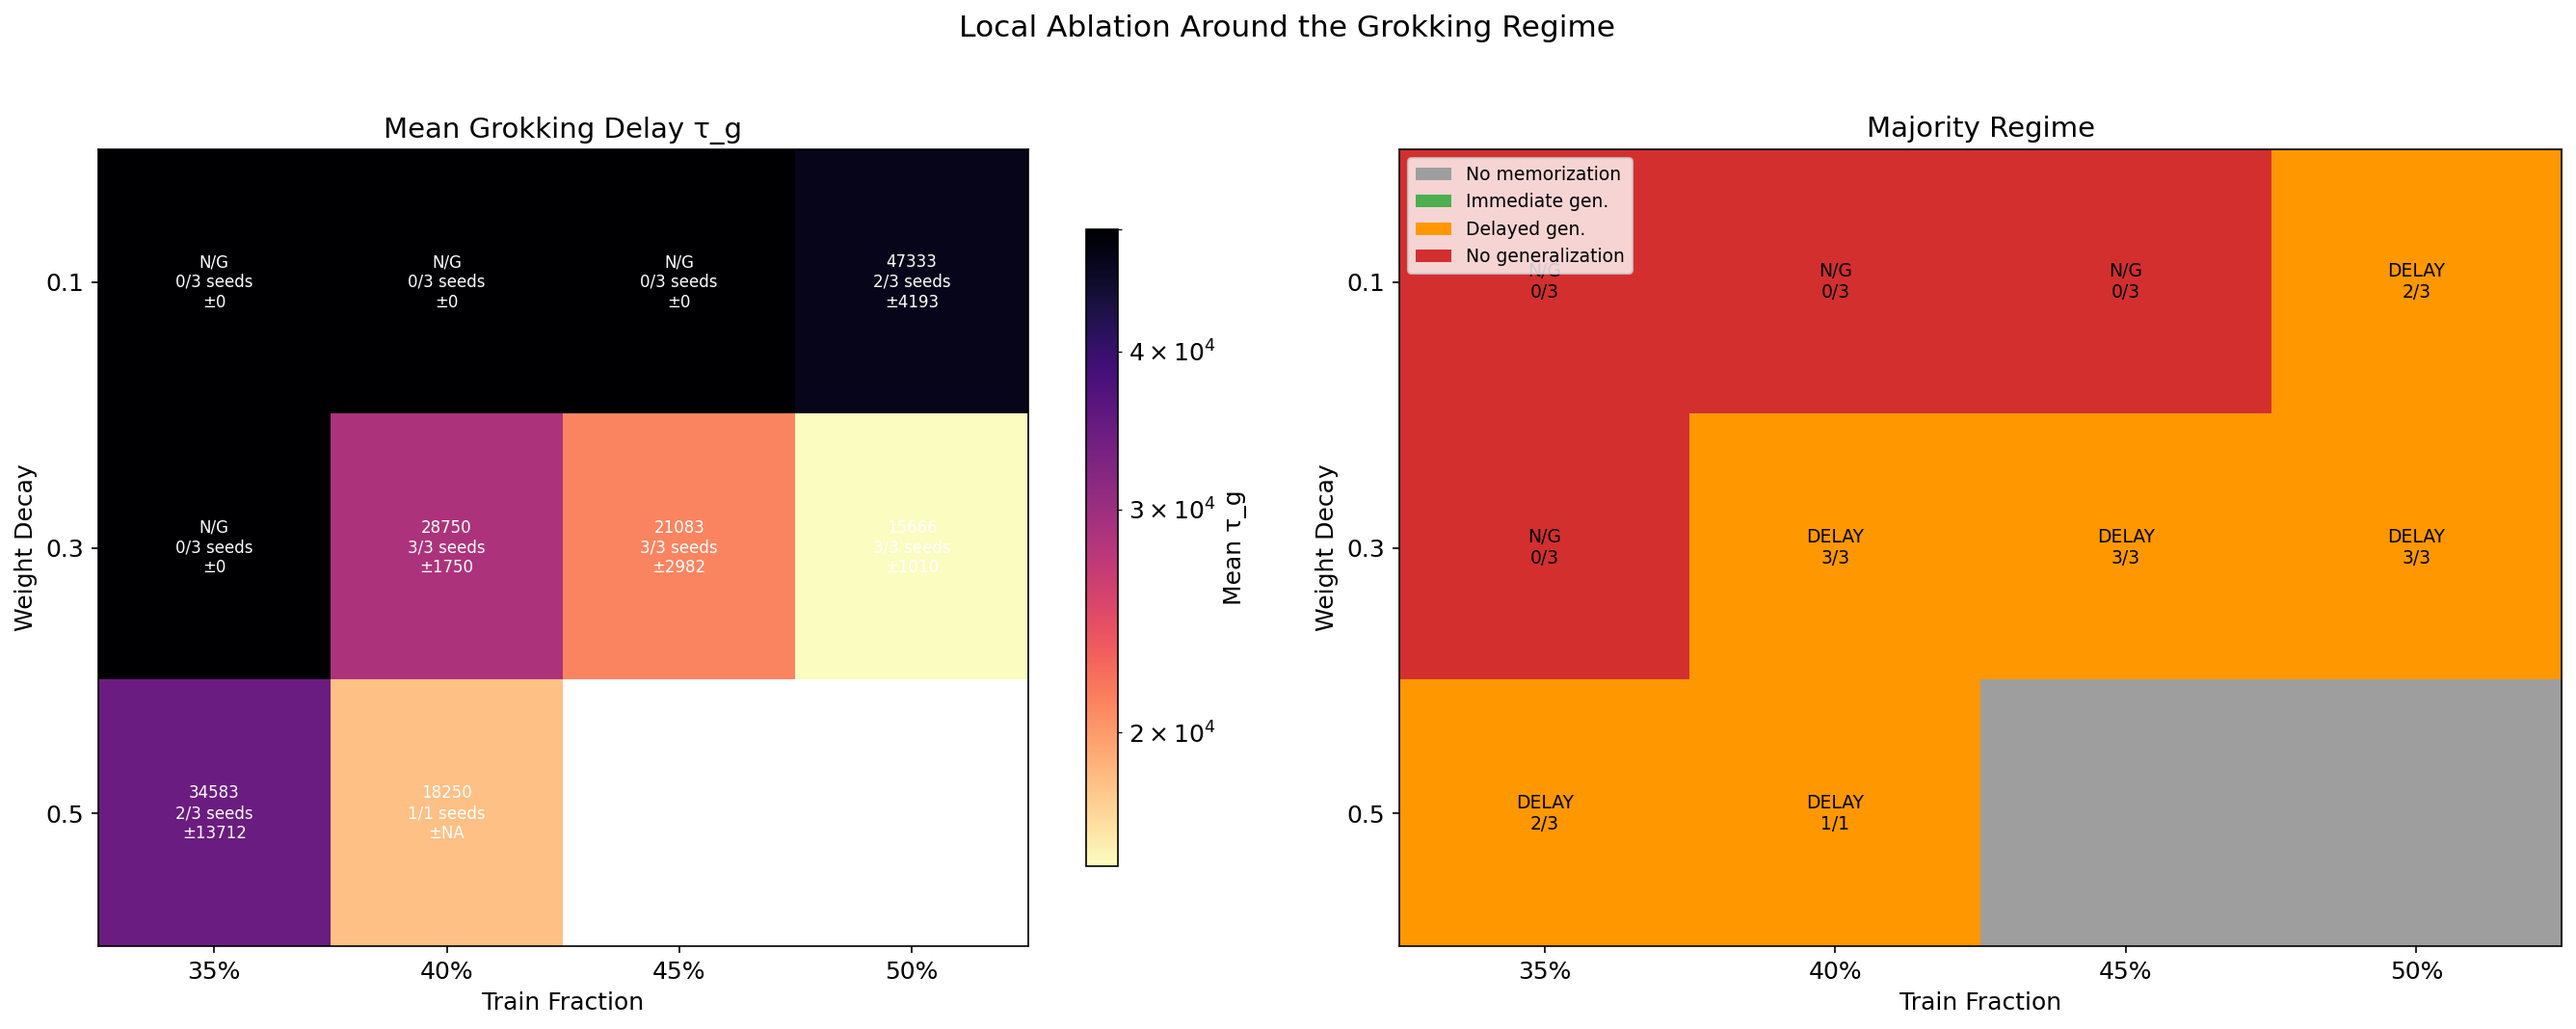
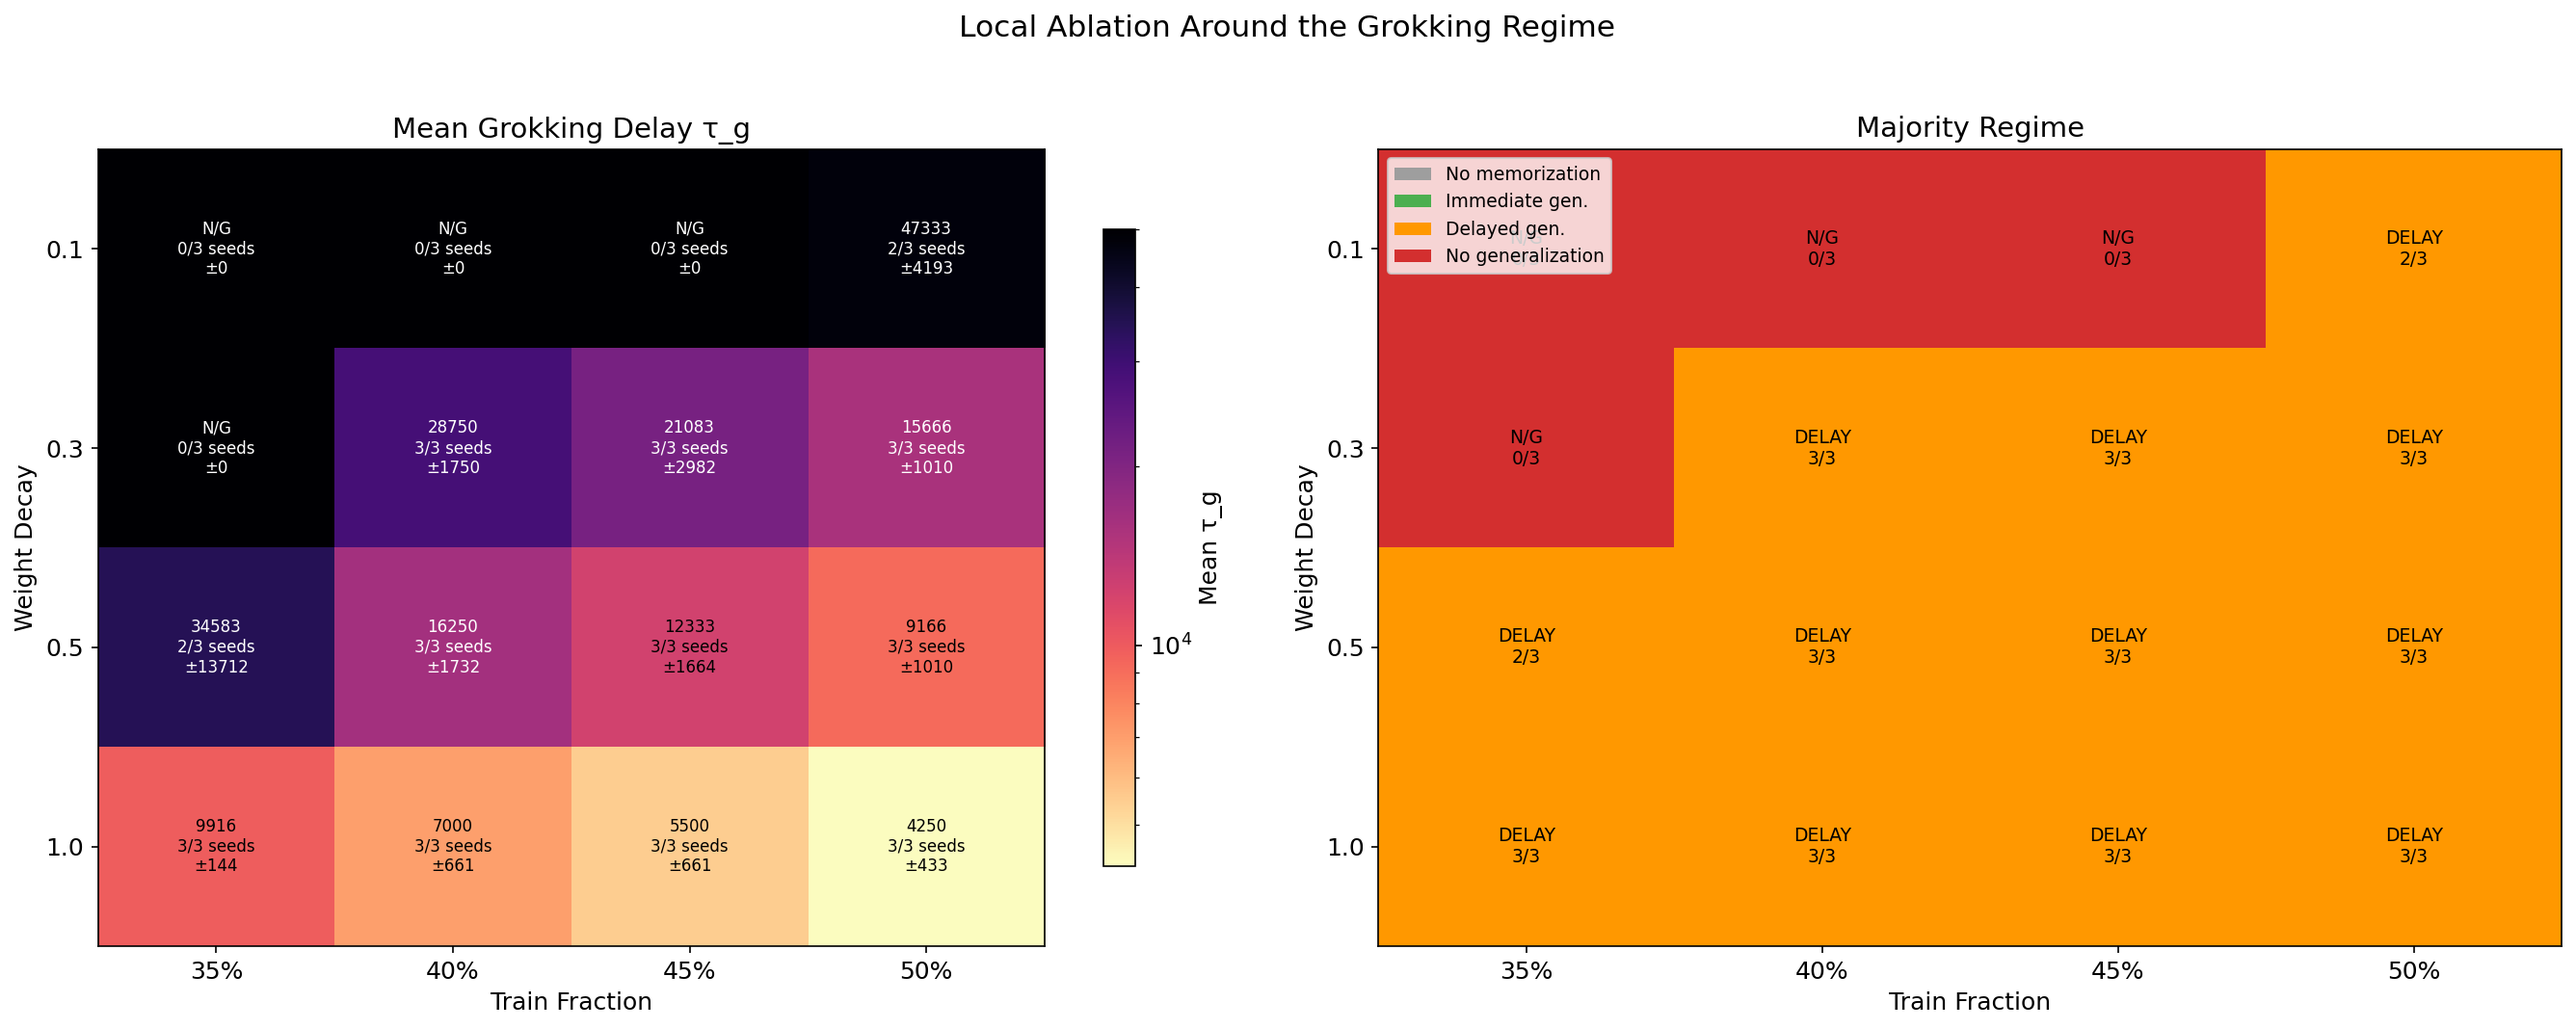
full ablation

diff --git a/grokking_ablation.py b/grokking_ablation.py
@@ -1,8 +1,6 @@
 import argparse
 import os
 import time
-from concurrent.futures import ProcessPoolExecutor, as_completed
-from multiprocessing import get_context
 
 import numpy as np
 import pandas as pd
@@ -19,58 +17,6 @@ from grokking_common import (
 )
 
 DEFAULT_OUT = "outputs/ablation"
-
-
-def _run_single(job):
-    """Worker function: each process imports torch and creates its own CUDA context."""
-    from grokking_common import TrainConfig, make_dataset, train_run, find_first_step
-
-    frac, wd, seed, steps, lr, eval_every, grad_clip = (
-        job["frac"], job["wd"], job["seed"], job["steps"],
-        job["lr"], job["eval_every"], job["grad_clip"],
-    )
-
-    ds = make_dataset(97, frac, seed=seed)
-    cfg = TrainConfig(
-        train_frac=frac,
-        data_seed=seed,
-        model_seed=seed,
-        n_steps=steps,
-        lr=lr,
-        weight_decay=wd,
-        eval_every=eval_every,
-        probe_every=steps + 1,
-        grad_clip=grad_clip,
-    )
-
-    _, metrics, _, _ = train_run(ds, cfg, collect_fourier=False, verbose=False)
-
-    s = np.array(metrics["step"])
-    tr = np.array(metrics["train_acc"])
-    te = np.array(metrics["test_acc"])
-
-    t99 = find_first_step(s, tr, 0.99)
-    t95 = find_first_step(s, te, 0.95)
-
-    if t99 is None:
-        delay, status = -1, "no_memorization"
-    elif t95 is None:
-        delay, status = steps, "no_generalization"
-    else:
-        delay = t95 - t99
-        status = "delayed_generalization" if delay >= 500 else "immediate_generalization"
-
-    return {
-        "train_frac": frac,
-        "weight_decay": wd,
-        "seed": seed,
-        "t_train_99": t99,
-        "t_test_95": t95,
-        "tau_g": delay,
-        "final_train_acc": float(tr[-1]),
-        "final_test_acc": float(te[-1]),
-        "status": status,
-    }
 
 
 def summarize_run(metrics, max_steps):
@@ -105,7 +51,71 @@ def majority_vote(series):
     return series.value_counts().idxmax()
 
 
-def aggregate_and_plot(per_seed_df, fracs, wds, steps, out_dir):
+def main():
+    parser = argparse.ArgumentParser()
+    parser.add_argument("--out_dir", type=str, default=DEFAULT_OUT)
+    parser.add_argument("--steps", type=int, default=50000)
+    parser.add_argument("--fracs", type=float, nargs="+", default=[0.35, 0.40, 0.45, 0.50])
+    parser.add_argument("--wds", type=float, nargs="+", default=[0.1, 0.3, 0.5, 1.0])
+    parser.add_argument("--seeds", type=int, nargs="+", default=[0, 1, 2])
+    parser.add_argument("--lr", type=float, default=3e-4)
+    parser.add_argument("--eval_every", type=int, default=250)
+    parser.add_argument("--grad_clip", type=float, default=1.0)
+    args = parser.parse_args()
+
+    ensure_dir(args.out_dir)
+    print(f"Device: {DEVICE}")
+
+    per_seed_rows = []
+    csv_path = os.path.join(args.out_dir, "ablation_results_per_seed.csv")
+    t0 = time.time()
+    total = len(args.wds) * len(args.fracs) * len(args.seeds)
+    done = 0
+
+    for wd in args.wds:
+        for frac in args.fracs:
+            for seed in args.seeds:
+                done += 1
+                print(f"\n[{done}/{total}] frac={frac}, wd={wd}, seed={seed}")
+
+                ds = make_dataset(97, frac, seed=seed)
+
+                cfg = TrainConfig(
+                    train_frac=frac,
+                    data_seed=seed,
+                    model_seed=seed,
+                    n_steps=args.steps,
+                    lr=args.lr,
+                    weight_decay=wd,
+                    eval_every=args.eval_every,
+                    probe_every=args.steps + 1,
+                    grad_clip=args.grad_clip,
+                )
+
+                _, metrics, _, _ = train_run(
+                    ds, cfg, collect_fourier=False, verbose=False,
+                )
+
+                summary = summarize_run(metrics, args.steps)
+
+                row = {
+                    "train_frac": frac,
+                    "weight_decay": wd,
+                    "seed": seed,
+                    **summary,
+                }
+                per_seed_rows.append(row)
+                pd.DataFrame(per_seed_rows).to_csv(csv_path, index=False)
+
+                elapsed = time.time() - t0
+                remaining = elapsed / done * (total - done)
+                print(f"  -> {row['status']}  tau_g={row['tau_g']}  "
+                      f"[{elapsed:.0f}s elapsed, ~{remaining:.0f}s remaining]")
+
+    per_seed_df = pd.DataFrame(per_seed_rows)
+    per_seed_df.to_csv(csv_path, index=False)
+
+    # Aggregate across seeds
     grouped = (
         per_seed_df.groupby(["train_frac", "weight_decay"], as_index=False)
         .agg(
@@ -128,106 +138,10 @@ def aggregate_and_plot(per_seed_df, fracs, wds, steps, out_dir):
     )
     grouped = grouped.merge(status_df, on=["train_frac", "weight_decay"], how="left")
 
-    grouped_path = os.path.join(out_dir, "ablation_results_grouped.csv")
+    grouped_path = os.path.join(args.out_dir, "ablation_results_grouped.csv")
     grouped.to_csv(grouped_path, index=False)
 
-    plot_phase_diagram(grouped, fracs, wds, steps, out_dir)
-    return grouped_path
-
-
-def main():
-    parser = argparse.ArgumentParser()
-    parser.add_argument("--out_dir", type=str, default=DEFAULT_OUT)
-    parser.add_argument("--steps", type=int, default=50000)
-    parser.add_argument("--fracs", type=float, nargs="+", default=[0.35, 0.40, 0.45, 0.50])
-    parser.add_argument("--wds", type=float, nargs="+", default=[0.1, 0.3, 0.5, 1.0])
-    parser.add_argument("--seeds", type=int, nargs="+", default=[0, 1, 2])
-    parser.add_argument("--lr", type=float, default=3e-4)
-    parser.add_argument("--eval_every", type=int, default=250)
-    parser.add_argument("--grad_clip", type=float, default=1.0)
-    parser.add_argument("--workers", type=int, default=1,
-                        help="Number of parallel workers (processes). "
-                             "Each worker runs one (frac, wd, seed) config at a time.")
-    args = parser.parse_args()
-
-    ensure_dir(args.out_dir)
-    print(f"Device: {DEVICE}")
-    print(f"Workers: {args.workers}")
-
-    jobs = []
-    for wd in args.wds:
-        for frac in args.fracs:
-            for seed in args.seeds:
-                jobs.append({
-                    "frac": frac, "wd": wd, "seed": seed,
-                    "steps": args.steps, "lr": args.lr,
-                    "eval_every": args.eval_every, "grad_clip": args.grad_clip,
-                })
-
-    total = len(jobs)
-    print(f"Total runs: {total}  ({len(args.fracs)} fracs x {len(args.wds)} wds x {len(args.seeds)} seeds)")
-
-    per_seed_rows = []
-    csv_path = os.path.join(args.out_dir, "ablation_results_per_seed.csv")
-    t0 = time.time()
-
-    def _save_incremental():
-        pd.DataFrame(per_seed_rows).to_csv(csv_path, index=False)
-
-    if args.workers <= 1:
-        for i, job in enumerate(jobs):
-            print(f"\n[{i+1}/{total}] frac={job['frac']}, wd={job['wd']}, seed={job['seed']}")
-
-            ds = make_dataset(97, job["frac"], seed=job["seed"])
-            cfg = TrainConfig(
-                train_frac=job["frac"],
-                data_seed=job["seed"],
-                model_seed=job["seed"],
-                n_steps=args.steps,
-                lr=args.lr,
-                weight_decay=job["wd"],
-                eval_every=args.eval_every,
-                probe_every=args.steps + 1,
-                grad_clip=args.grad_clip,
-            )
-            _, metrics, _, _ = train_run(ds, cfg, collect_fourier=False, verbose=False)
-            summary = summarize_run(metrics, args.steps)
-
-            row = {"train_frac": job["frac"], "weight_decay": job["wd"],
-                   "seed": job["seed"], **summary}
-            per_seed_rows.append(row)
-            _save_incremental()
-
-            elapsed = time.time() - t0
-            remaining = elapsed / (i + 1) * (total - i - 1)
-            print(f"  -> {row['status']}  tau_g={row['tau_g']}  "
-                  f"[{elapsed:.0f}s elapsed, ~{remaining:.0f}s remaining]")
-    else:
-        ctx = get_context("spawn")
-        with ProcessPoolExecutor(max_workers=args.workers, mp_context=ctx) as pool:
-            future_to_job = {pool.submit(_run_single, job): job for job in jobs}
-            done_count = 0
-            for future in as_completed(future_to_job):
-                job = future_to_job[future]
-                done_count += 1
-                try:
-                    row = future.result()
-                    per_seed_rows.append(row)
-                    _save_incremental()
-                    elapsed = time.time() - t0
-                    remaining = elapsed / done_count * (total - done_count)
-                    print(f"[{done_count}/{total}] frac={row['train_frac']}, "
-                          f"wd={row['weight_decay']}, seed={row['seed']} -> "
-                          f"{row['status']}  tau_g={row['tau_g']}  "
-                          f"[{elapsed:.0f}s elapsed, ~{remaining:.0f}s remaining]")
-                except Exception as e:
-                    print(f"[{done_count}/{total}] FAILED frac={job['frac']}, "
-                          f"wd={job['wd']}, seed={job['seed']}: {e}")
-
-    per_seed_df = pd.DataFrame(per_seed_rows)
-    per_seed_df.to_csv(csv_path, index=False)
-
-    grouped_path = aggregate_and_plot(per_seed_df, args.fracs, args.wds, args.steps, args.out_dir)
+    plot_phase_diagram(grouped, args.fracs, args.wds, args.steps, args.out_dir)
 
     save_json(
         {
@@ -238,7 +152,6 @@ def main():
             "lr": args.lr,
             "eval_every": args.eval_every,
             "grad_clip": args.grad_clip,
-            "workers": args.workers,
         },
         os.path.join(args.out_dir, "ablation_config.json"),
     )
